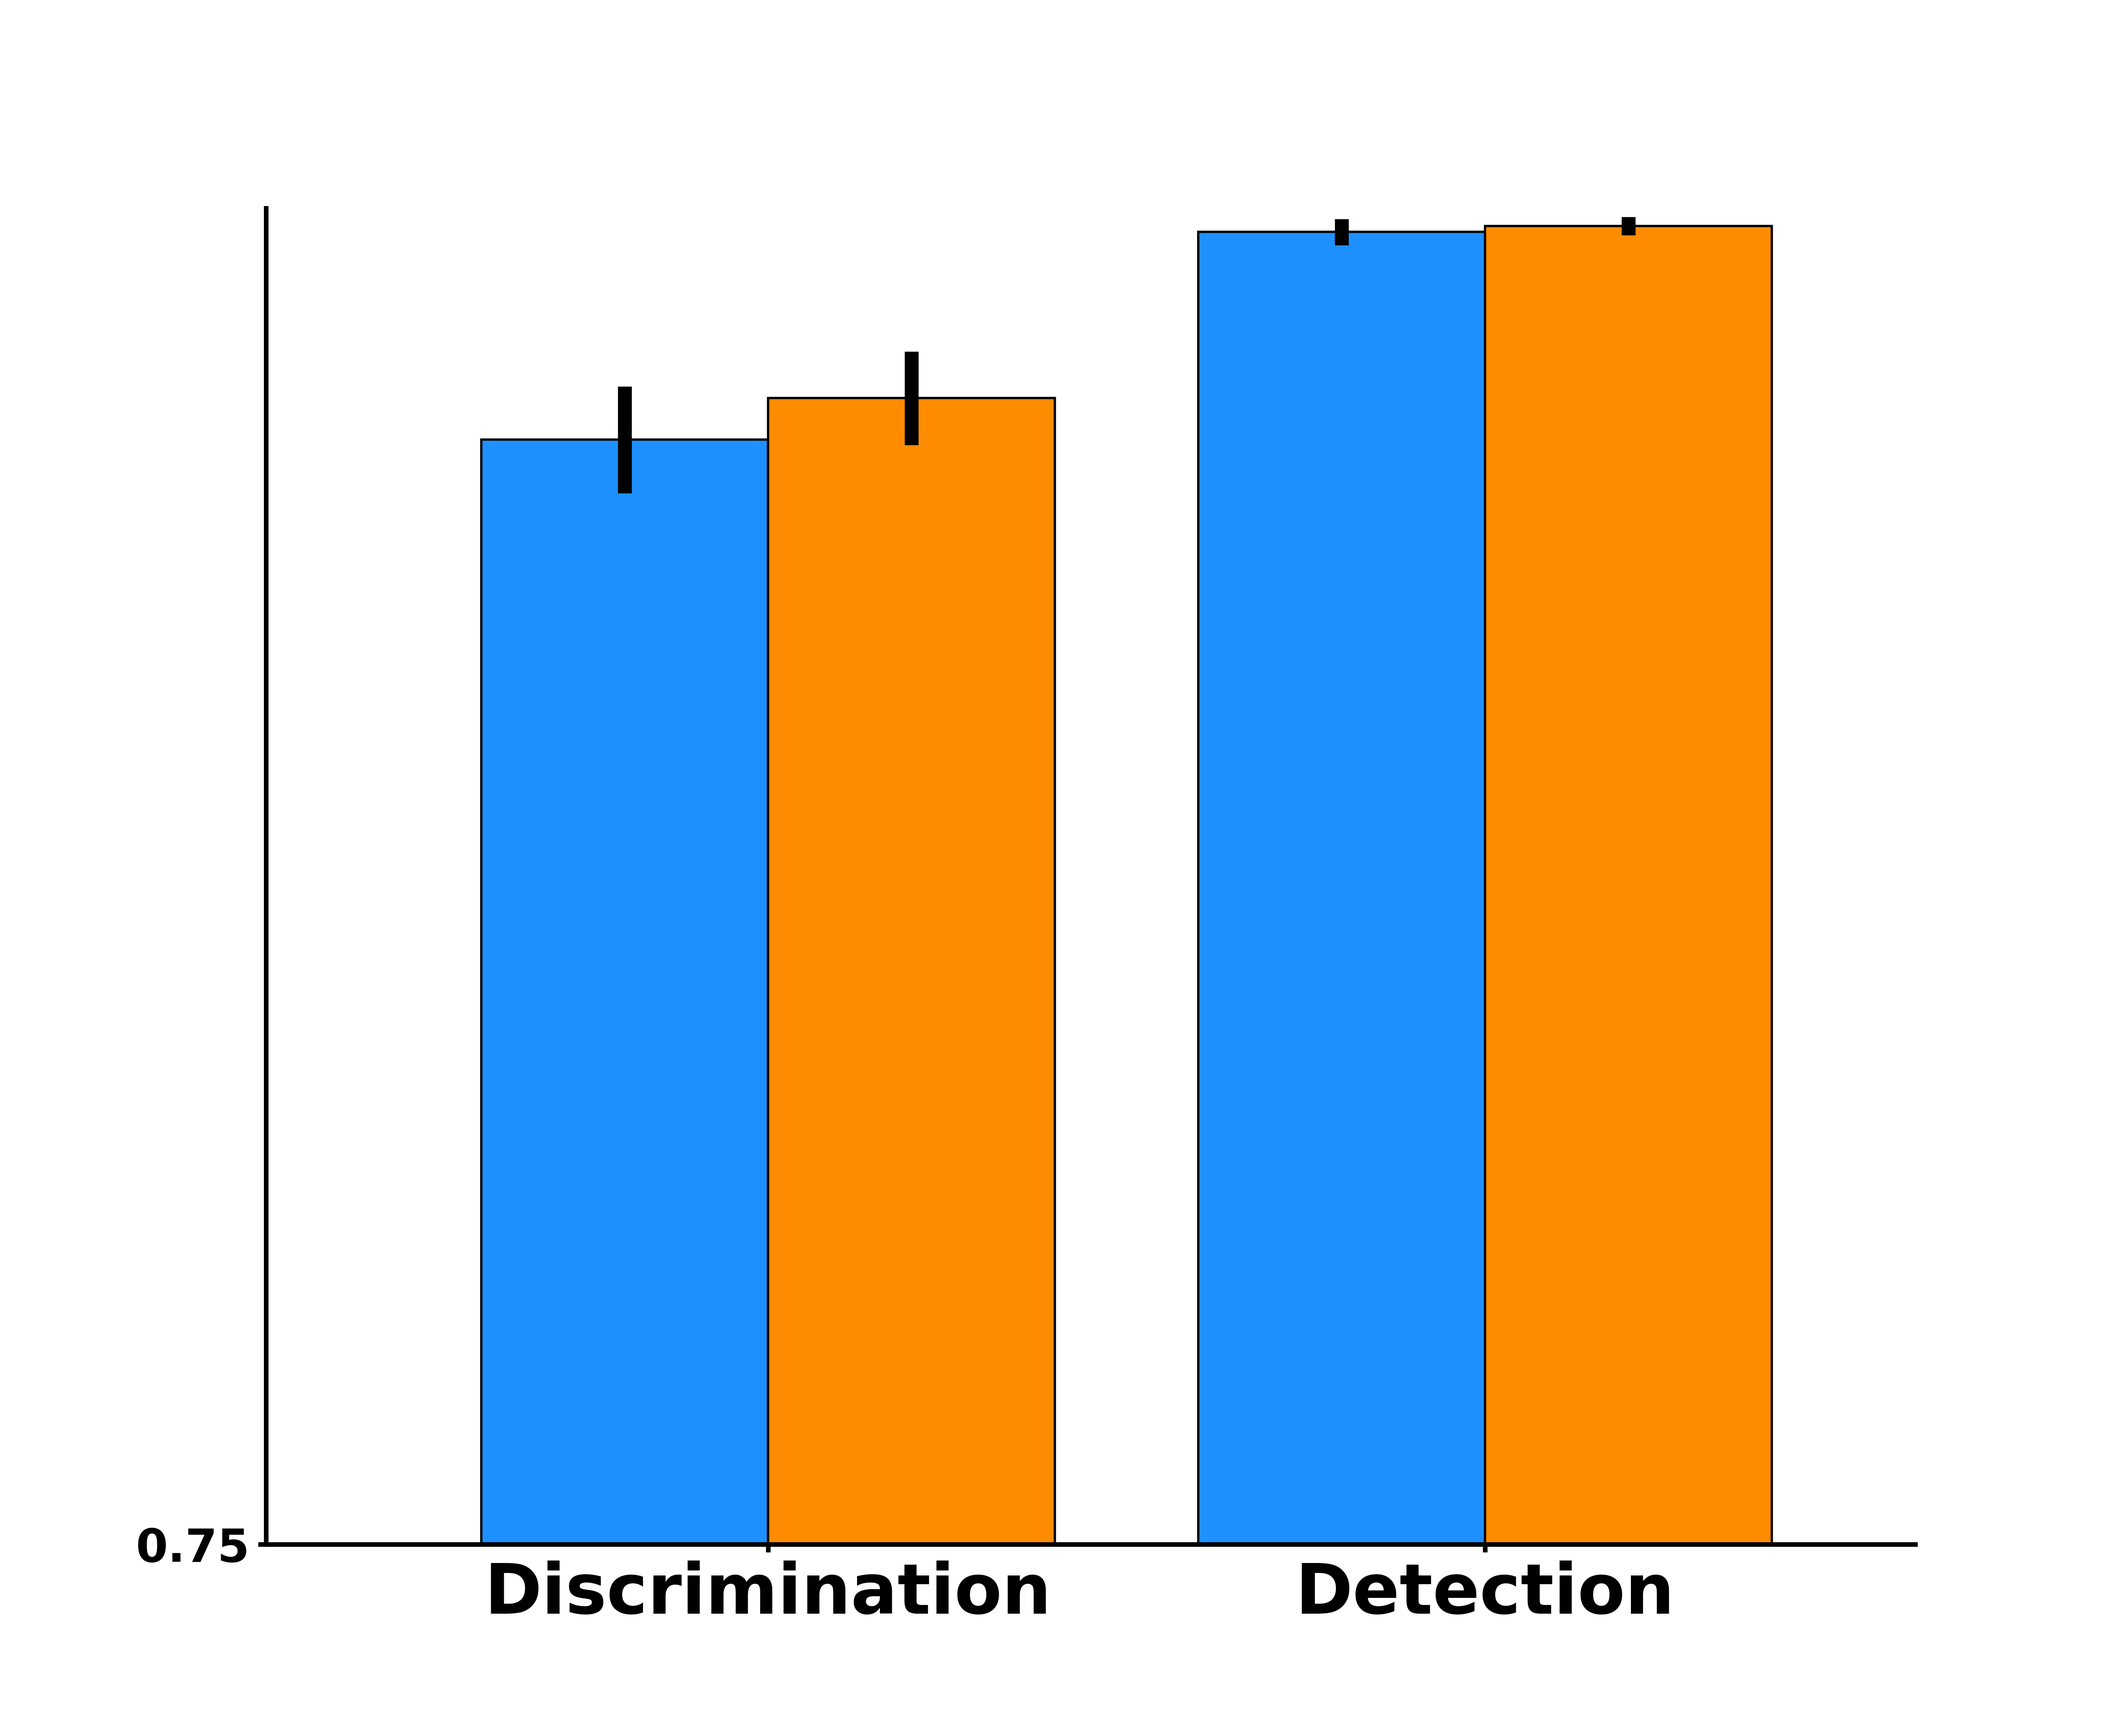
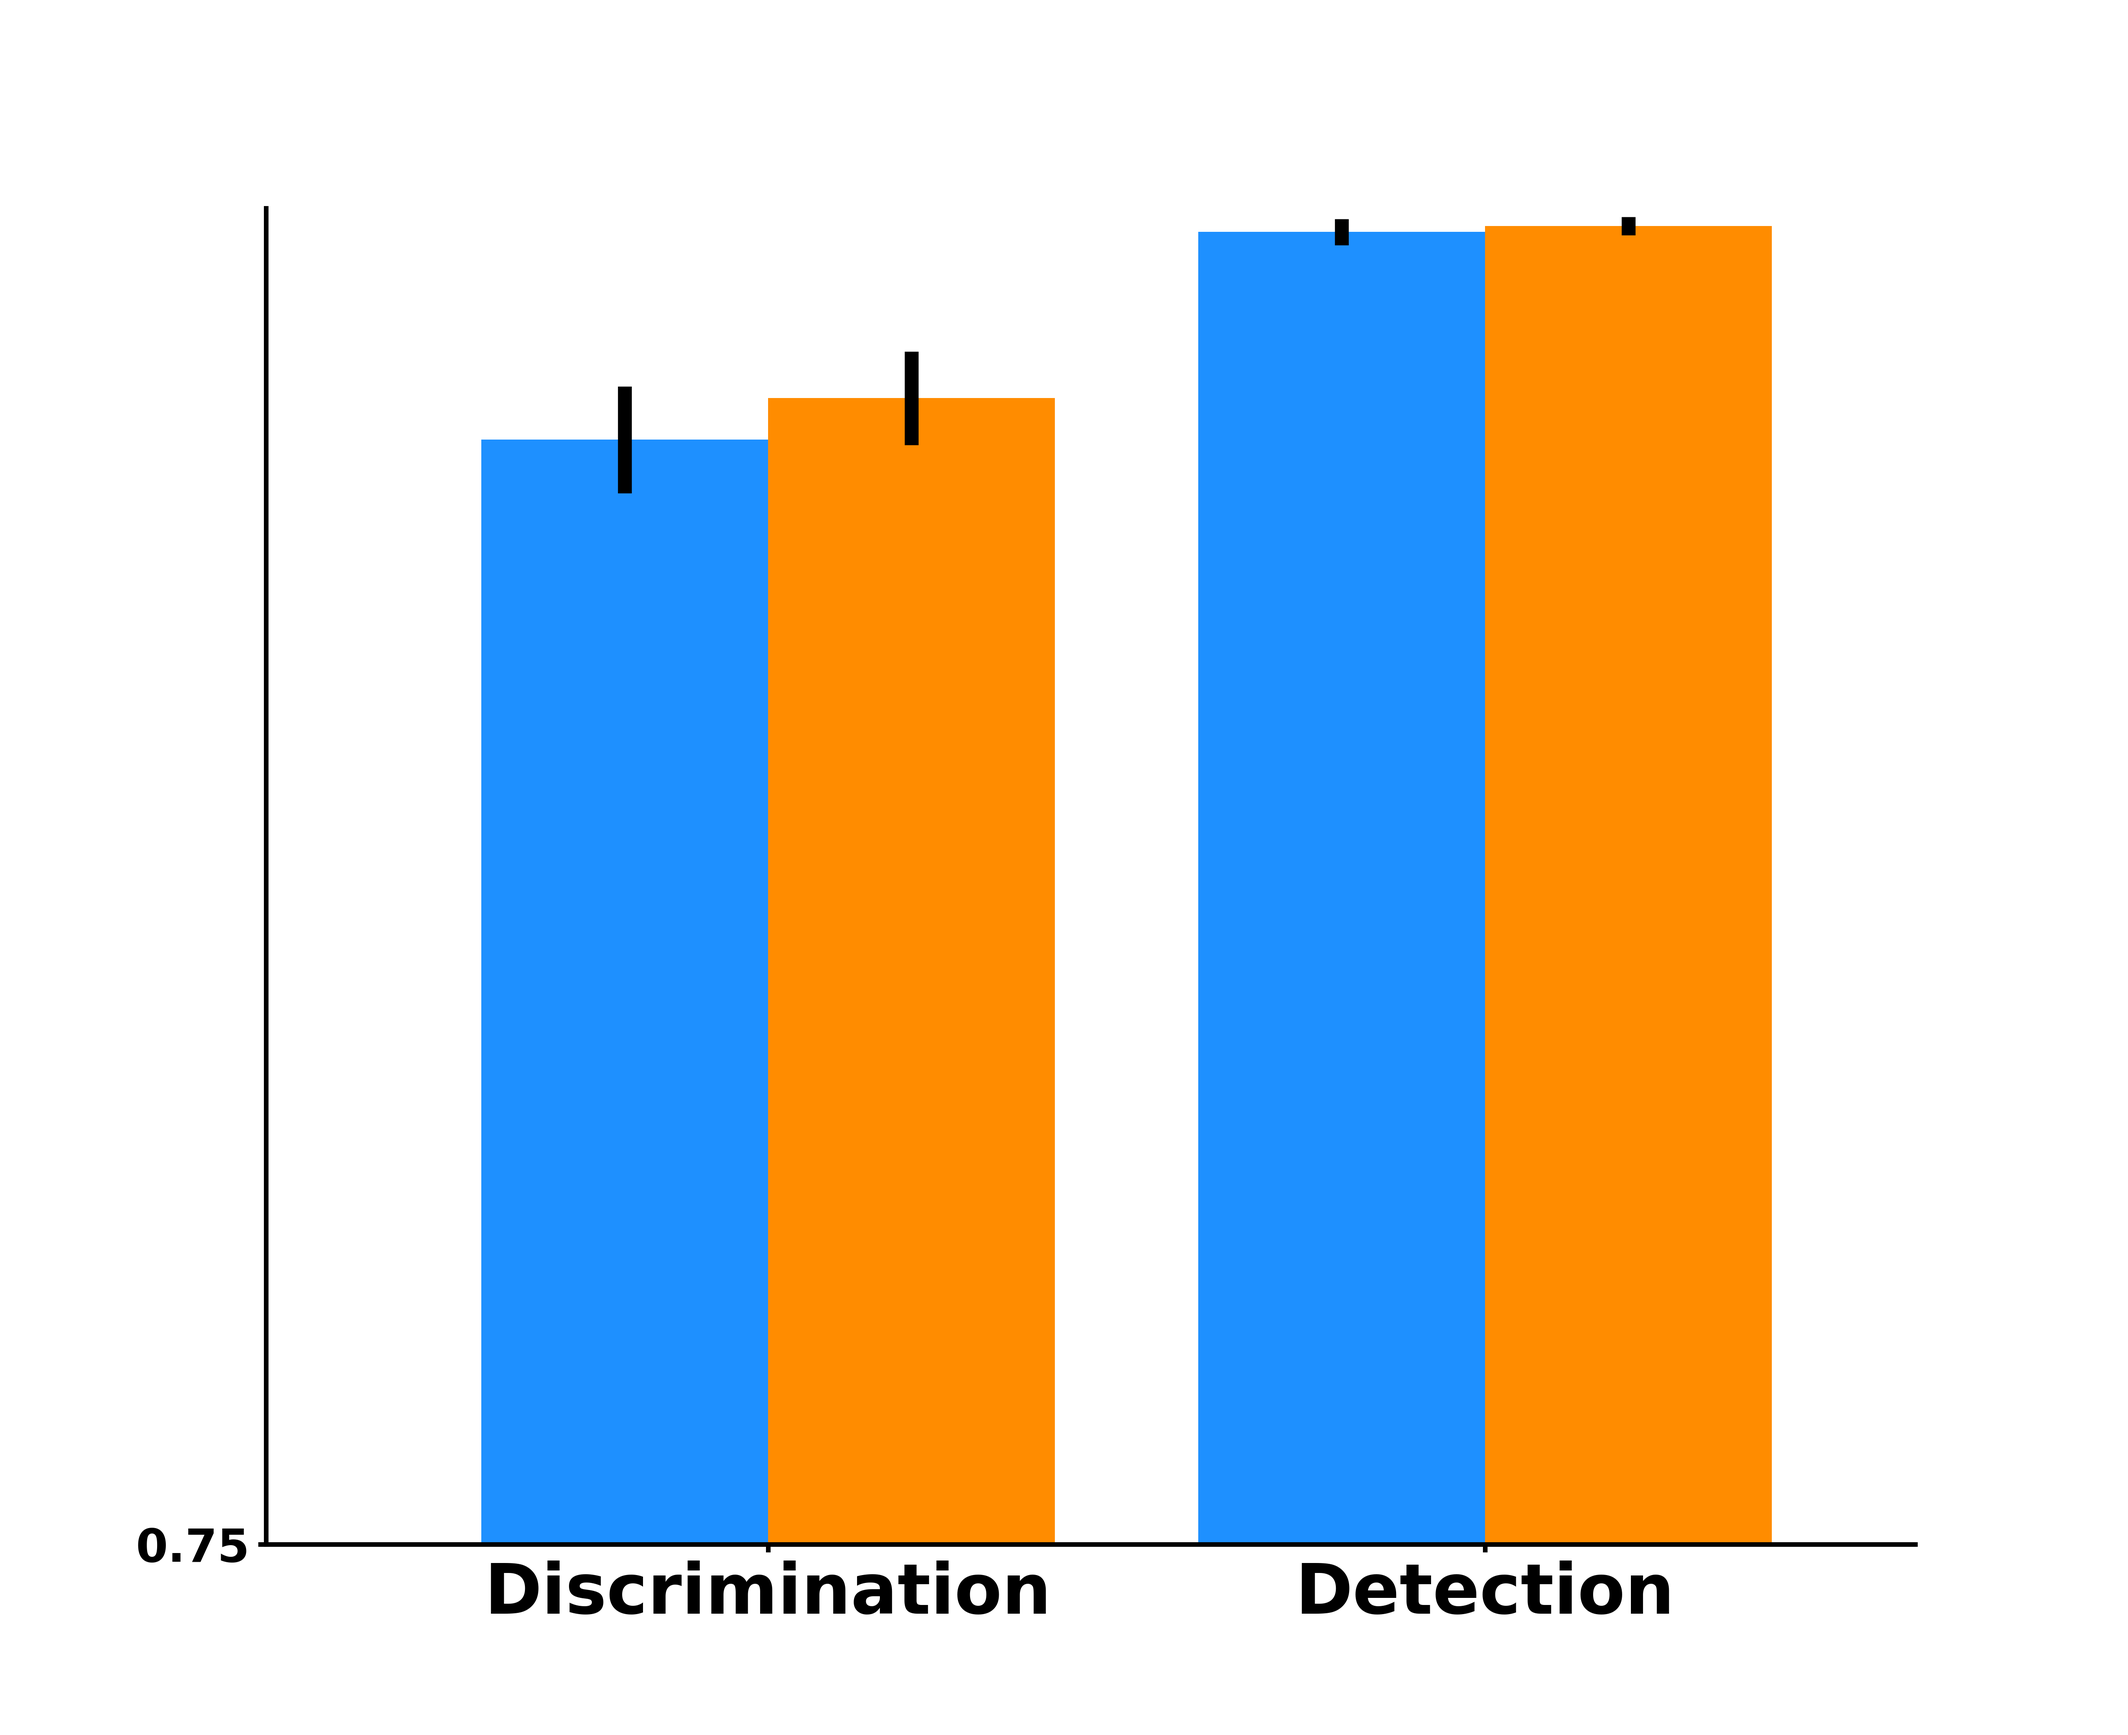
adjusted plotting so that the edgecolor isn;t set to black

diff --git a/generate_figures.py b/generate_figures.py
@@ -8,6 +8,8 @@ from matplotlib import cm
 import matplotlib.lines as mlines
 import shelve #for database writing and reading
 
+#screen dimensions for the office ocmputer = (19.2,10.44)
+
 shelvepath =  '/Users/james/Documents/Python/et_mt/data/'; #'/Users/jameswilmott/Documents/Python/et_mt/data/'; #	
 savepath = '/Users/james/Documents/Python/et_mt/figures/' #'/Users/jameswilmott/Documents/Python/et_mt/figures/'; #
 
@@ -22,15 +24,15 @@ matplotlib.rcParams['xtick.major.width']=2.0; matplotlib.rcParams['ytick.major.w
 matplotlib.pyplot.rc('font',weight='bold');
 
 # 0.0 number of targets data
-fig = figure(figsize = (19.2,10.44)); ax1=gca(); #grid(True);
+fig = figure(figsize = (12.8,7.64)); ax1=gca(); #grid(True);
 ax1.set_ylim(350,900); ax1.set_yticks(arange(350,950,50)); ax1.set_xlim([0.5,2.8]);  ax1.set_xticks([1.2,2.2]); #ax1.set_ylabel('Response Time',size=18); ax1.set_xlabel('Hemispheric Location of Targets',size=18,labelpad=40);		
 ax1.set_xticklabels(['Discrimination','Detection']);
 colors=['limegreen','mediumpurple']; ex=1;
 for c,type in zip(colors,['st','mt']):
     #note, already converted this to milliseconds in analysis:
-    ax1.bar(ex,db['%s_Discrim_%s_mean_rt'%(id,type)],color=c,width=0.4,edgecolor='black');
+    ax1.bar(ex,db['%s_Discrim_%s_mean_rt'%(id,type)],color=c,width=0.4);  #,edgecolor='black'
     ax1.errorbar(ex,db['%s_Discrim_%s_mean_rt'%(id,type)],yerr=[[db['%s_Discrim_%s_rt_bs_sems'%(id,type)]],[db['%s_Discrim_%s_rt_bs_sems'%(id,type)]]],color='black',lw=6.0);
-    ax1.bar(ex+1,db['%s_Detect_%s_mean_rt'%(id,type)],color=c,width=0.4,edgecolor='black');
+    ax1.bar(ex+1,db['%s_Detect_%s_mean_rt'%(id,type)],color=c,width=0.4); #,edgecolor='black'
     ax1.errorbar(ex+1,db['%s_Detect_%s_mean_rt'%(id,type)],yerr=[[db['%s_Detect_%s_rt_bs_sems'%(id,type)]],[db['%s_Detect_%s_rt_bs_sems'%(id,type)]]],color='black',lw=6.0);
     ex+=0.4
 ax1.spines['right'].set_visible(False); ax1.spines['top'].set_visible(False);
@@ -48,15 +50,15 @@ savefig(savepath+filename+'.eps',dpi=400);
 show();
 
 #proportion correct for NT
-fig = figure(figsize = (19.2,10.44)); ax1=gca(); #grid(True);
+fig = figure(figsize = (12.8,7.64)); ax1=gca(); #grid(True);
 ax1.set_ylim(0.75,1.000); ax1.set_yticks(arange(0.75,1.0,0.5)); ax1.set_xlim([0.5,2.8]);  ax1.set_xticks([1.2,2.2]); #ax1.set_ylabel('Response Time',size=18); ax1.set_xlabel('Hemispheric Location of Targets',size=18,labelpad=40);		
 ax1.set_xticklabels(['Discrimination','Detection']);
 colors=['limegreen','mediumpurple']; ex=1;
 for c,type in zip(colors,['st','mt']):
     #note, already converted this to milliseconds in analysis:
-    ax1.bar(ex,db['%s_Discrim_%s_pc'%(id,type)],color=c,width=0.4,edgecolor='black');
+    ax1.bar(ex,db['%s_Discrim_%s_pc'%(id,type)],color=c,width=0.4); #,edgecolor='black'
     ax1.errorbar(ex,db['%s_Discrim_%s_pc'%(id,type)],yerr=[[db['%s_Discrim_%s_pc_bs_sems'%(id,type)]],[db['%s_Discrim_%s_pc_bs_sems'%(id,type)]]],color='black',lw=6.0);
-    ax1.bar(ex+1,db['%s_Detect_%s_pc'%(id,type)],color=c,width=0.4,edgecolor='black');
+    ax1.bar(ex+1,db['%s_Detect_%s_pc'%(id,type)],color=c,width=0.4); #,edgecolor='black'
     ax1.errorbar(ex+1,db['%s_Detect_%s_pc'%(id,type)],yerr=[[db['%s_Detect_%s_pc_bs_sems'%(id,type)]],[db['%s_Detect_%s_pc_bs_sems'%(id,type)]]],color='black',lw=6.0);
     ex+=0.4
 ax1.spines['right'].set_visible(False); ax1.spines['top'].set_visible(False);
@@ -87,15 +89,15 @@ savefig(savepath+filename+'.png',dpi=400);
 
 # 1.0 Hemifield Relation stuff
 #start with same vs. different HF plot
-fig = figure(figsize = (19.2,10.44)); ax1=gca(); #grid(True);
+fig = figure(figsize = (12.8,7.64)); ax1=gca(); #grid(True);
 ax1.set_ylim(350,900); ax1.set_yticks(arange(350,950,50)); ax1.set_xlim([0.5,2.8]);  ax1.set_xticks([1.2,2.2]); #ax1.set_ylabel('Response Time',size=18); ax1.set_xlabel('Hemispheric Location of Targets',size=18,labelpad=40);		
 ax1.set_xticklabels(['Discrimination','Detection']);
 colors=['dodgerblue','darkorange']; 
 ex=1;
 for hat,type,c in zip(['',''],['same','diff'],colors):
-    ax1.bar(ex,db['%s_Discrim_%s_hf_mean_rt'%(id,type)],color=c,hatch=hat,width=0.4,edgecolor='black');
+    ax1.bar(ex,db['%s_Discrim_%s_hf_mean_rt'%(id,type)],color=c,hatch=hat,width=0.4); #,edgecolor='black'
     ax1.errorbar(ex,db['%s_Discrim_%s_hf_mean_rt'%(id,type)],yerr=[[db['%s_Discrim_%s_rt_bs_sems'%(id,type)]],[db['%s_Discrim_%s_rt_bs_sems'%(id,type)]]],color='black',lw=6.0);
-    ax1.bar(ex+1,db['%s_Detect_%s_hf_mean_rt'%(id,type)],color=c,hatch=hat,width=0.4,edgecolor='black');
+    ax1.bar(ex+1,db['%s_Detect_%s_hf_mean_rt'%(id,type)],color=c,hatch=hat,width=0.4); #,edgecolor='black'
     ax1.errorbar(ex+1,db['%s_Detect_%s_hf_mean_rt'%(id,type)],yerr=[[db['%s_Detect_%s_rt_bs_sems'%(id,type)]],[db['%s_Detect_%s_rt_bs_sems'%(id,type)]]],color='black',lw=6.0);
     ex+=0.4
 ax1.spines['right'].set_visible(False); ax1.spines['top'].set_visible(False);
@@ -113,15 +115,15 @@ savefig(savepath+filename+'.eps',dpi=400);
 show();
 
 #proportion correct for HF
-fig = figure(figsize = (19.2,10.44)); ax1=gca(); #grid(True);
+fig = figure(figsize = (12.8,7.64)); ax1=gca(); #grid(True);
 ax1.set_ylim(0.75,1.000); ax1.set_yticks(arange(0.75,1.0,0.5)); ax1.set_xlim([0.5,2.8]);  ax1.set_xticks([1.2,2.2]); #ax1.set_ylabel('Response Time',size=18); ax1.set_xlabel('Hemispheric Location of Targets',size=18,labelpad=40);		
 ax1.set_xticklabels(['Discrimination','Detection']);
 colors=['dodgerblue','darkorange'];  ex=1;
 for hat,type,c in zip(['',''],['same','diff'],colors):
     #note, already converted this to milliseconds in analysis:
-    ax1.bar(ex,db['%s_Discrim_%s_hf_pc'%(id,type)],color=c,width=0.4,edgecolor='black');
+    ax1.bar(ex,db['%s_Discrim_%s_hf_pc'%(id,type)],color=c,width=0.4); #,edgecolor='black'
     ax1.errorbar(ex,db['%s_Discrim_%s_hf_pc'%(id,type)],yerr=[[db['%s_Discrim_%s_hf_pc_bs_sems'%(id,type)]],[db['%s_Discrim_%s_hf_pc_bs_sems'%(id,type)]]],color='black',lw=6.0);
-    ax1.bar(ex+1,db['%s_Detect_%s_hf_pc'%(id,type)],color=c,width=0.4,edgecolor='black');
+    ax1.bar(ex+1,db['%s_Detect_%s_hf_pc'%(id,type)],color=c,width=0.4); #,edgecolor='black'
     ax1.errorbar(ex+1,db['%s_Detect_%s_hf_pc'%(id,type)],yerr=[[db['%s_Detect_%s_hf_pc_bs_sems'%(id,type)]],[db['%s_Detect_%s_hf_pc_bs_sems'%(id,type)]]],color='black',lw=6.0);
     ex+=0.4
 ax1.spines['right'].set_visible(False); ax1.spines['top'].set_visible(False);
@@ -139,7 +141,7 @@ savefig(savepath+filename+'.eps',dpi=400);
 show();
 
 # same vs. different by target shape match for discrimination trials
-fig = figure(figsize = (19.2,10.44)); ax1=gca(); #grid(True);
+fig = figure(figsize = (12.8,7.64)); ax1=gca(); #grid(True);
 ax1.set_ylim(350,900); ax1.set_yticks(arange(350,950,50)); ax1.set_xlim([0.5,2.8]);  ax1.set_xticks([1.2,2.2]);
 #ax1.set_ylabel('Response Time',size=18); ax1.set_xlabel('Hemispheric Location of Targets',size=18,labelpad=40);		
 ax1.set_xticklabels(['Target Shapes Different','Target Shapes The Same']);
@@ -147,7 +149,7 @@ width=0.4; add=0;
 for h,targ_match in zip(['/','x'],['no_match','match']):
     ex=1;
     for c,hf_match in zip(['dodgerblue','darkorange'],['same','diff']):	
-        ax1.bar(ex+add,db['%s_Discrim_%s_hf_%s_mean_rt'%(id,hf_match,targ_match)],color=c,hatch=h,width=width,edgecolor='black');
+        ax1.bar(ex+add,db['%s_Discrim_%s_hf_%s_mean_rt'%(id,hf_match,targ_match)],color=c,hatch=h,width=width); #,edgecolor='black'
         ax1.errorbar(ex+add,db['%s_Discrim_%s_hf_%s_mean_rt'%(id,hf_match,targ_match)],yerr=[[db['%s_Discrim_%s_%s_rt_bs_sems'%(id,hf_match,targ_match)]],[db['%s_Discrim_%s_%s_rt_bs_sems'%(id,hf_match,targ_match)]]],color='black',lw=6.0);
         ex+=0.4;
         if hf_match=='diff':
@@ -167,14 +169,14 @@ savefig(savepath+filename+'.eps',dpi=400);
 show();
 
 #proportion correct for HF by target types..
-fig = figure(figsize = (19.2,10.44)); ax1=gca(); #grid(True);
+fig = figure(figsize = (12.8,7.64)); ax1=gca(); #grid(True);
 ax1.set_ylim(0.75,1.000); ax1.set_yticks(arange(0.75,1.0,0.5)); ax1.set_xlim([0.5,2.8]);  ax1.set_xticks([1.2,2.2]); #ax1.set_ylabel('Response Time',size=18); ax1.set_xlabel('Hemispheric Location of Targets',size=18,labelpad=40);		
 ax1.set_xticklabels(['Target Shapes Different','Target Shapes The Same']);  
 width=0.4; add=0;
 for h,targ_match in zip(['/','x'],['no_match','match']):
     ex=1;
     for c,hf_match in zip(['dodgerblue','darkorange'],['same','diff']):	
-        ax1.bar(ex+add,db['%s_Discrim_%s_hf_%s_pc'%(id,hf_match,targ_match)],color=c,hatch=h,width=width,edgecolor='black');
+        ax1.bar(ex+add,db['%s_Discrim_%s_hf_%s_pc'%(id,hf_match,targ_match)],color=c,hatch=h,width=width); #,edgecolor='black'
         ax1.errorbar(ex+add,db['%s_Discrim_%s_hf_%s_pc'%(id,hf_match,targ_match)],yerr=[[db['%s_Discrim_%s_hf_%s_pc_bs_sems'%(id,hf_match,targ_match)]],[db['%s_Discrim_%s_hf_%s_pc_bs_sems'%(id,hf_match,targ_match)]]],color='black',lw=6.0);
         ex+=0.4;
         if hf_match=='diff':
